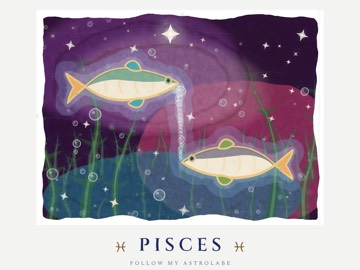
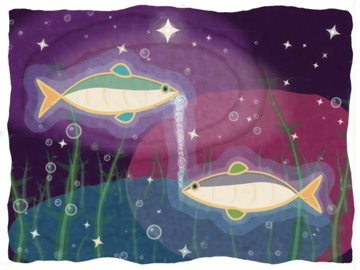
Only the print preview carries the title; everywhere else shows the plain art
The titled prints had replaced assets/signs, so the homepage gallery and the
web app's horoscope and sign sections showed the name, symbol and imprint
too. Morgan wants those on the print only. assets/signs is the plain art
again (homepage, web app, and the /prints/ picker swatches), and the big
/prints/ preview reads the titled print from the new assets/prints. The
prints also keep everything 3/4 in from the edge now, so a frame can't hide
the imprint, and the master's white ground no longer shows as a bright
rectangle on the paper.

diff --git a/prints/index.html b/prints/index.html
@@ -144,7 +144,7 @@
 
   <figure class="look">
     <div class="sheet" id="sheet">
-      <img id="preview" src="/assets/signs/aries.jpg"
+      <img id="preview" src="/assets/prints/aries.jpg"
            alt="Aries, illustrated in a batik style"
            width="1600" height="1200" fetchpriority="high">
     </div>
@@ -284,7 +284,7 @@
   function showSign(sign) {
     var name = SIGN_NAMES[sign];
     if (!name) return;
-    previewEl.src = "/assets/signs/" + sign + ".jpg";
+    previewEl.src = "/assets/prints/" + sign + ".jpg";
     previewEl.alt = name + ", illustrated in a batik style";
     previewNameEl.textContent = name;
   }
